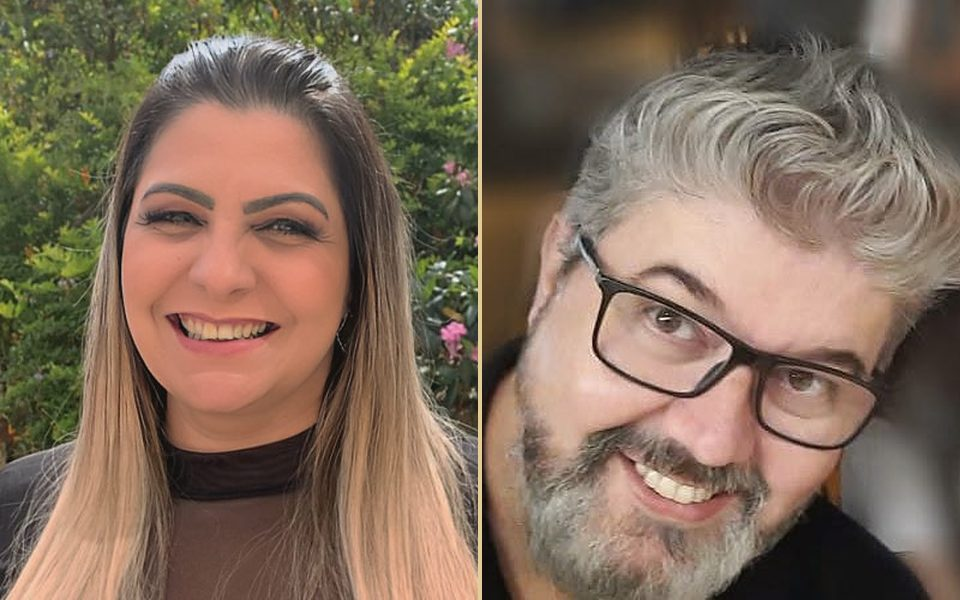
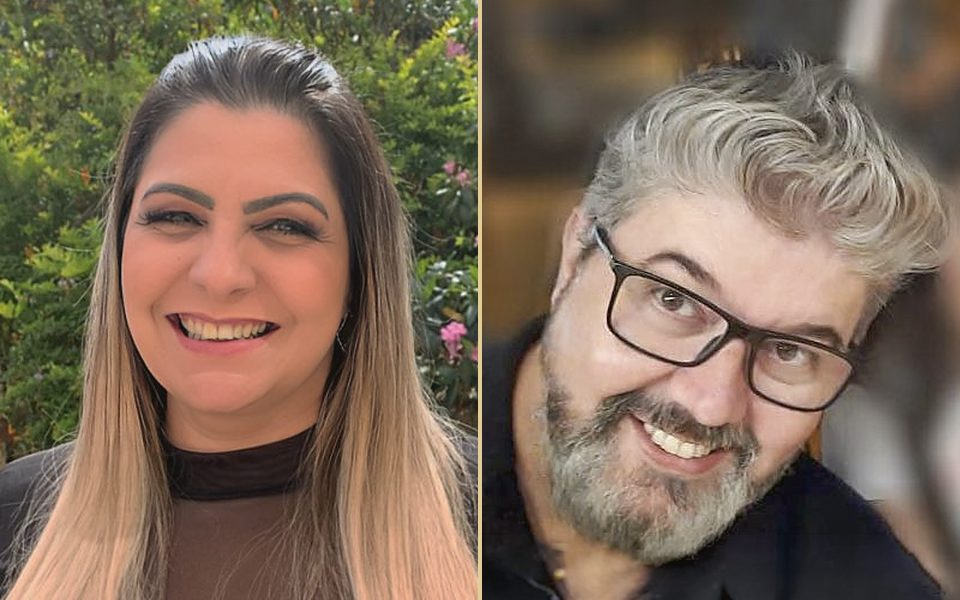
Retrato do Leandro tratado na Adobe (aguardando aprovação)
Claude-Session: https://claude.ai/code/session_01PWq2knMsAvroevk5xPBsaw

Changed region(s): [[0.5, 0.0, 1.0, 1.0], [0.5, 0.15, 0.5312, 0.24], [0.5625, 0.15, 0.5938, 0.21]]

diff --git a/index.html b/index.html
@@ -337,7 +337,7 @@ footer b{color:var(--papel);font-weight:500}
         <span><svg class="i" viewBox="0 0 24 24"><use href="#i-chat"/></svg>Acompanhamento pelo WhatsApp</span>
       </div>
     </div>
-    <figure class="foto foto-real"><img src="img/leandro-mentor-topo.jpg" width="545" height="681" fetchpriority="high" alt="Leandro Garcia, mentor de terapeutas espiritualistas" width="720" height="964"></figure>
+    <figure class="foto foto-real"><img src="img/leandro-mentor-topo.jpg" width="619" height="774" fetchpriority="high" alt="Leandro Garcia, mentor de terapeutas espiritualistas" width="720" height="964"></figure>
   </div>
 </header>
 
@@ -480,7 +480,7 @@ footer b{color:var(--papel);font-weight:500}
 
 <section class="sobre" id="sobre">
   <div class="wrap sobre-grid">
-    <figure class="foto foto-real"><img src="img/leandro-mentor-sobre.jpg" width="545" height="681" loading="lazy" decoding="async" alt="Leandro Garcia em retrato profissional" width="720" height="964" loading="lazy"></figure>
+    <figure class="foto foto-real"><img src="img/leandro-mentor-sobre.jpg" width="619" height="774" loading="lazy" decoding="async" alt="Leandro Garcia em retrato profissional" width="720" height="964" loading="lazy"></figure>
     <div class="sobre-texto">
       <div class="eyebrow">Quem vai caminhar com você</div>
       <h2 class="h2">Leandro Garcia</h2>
